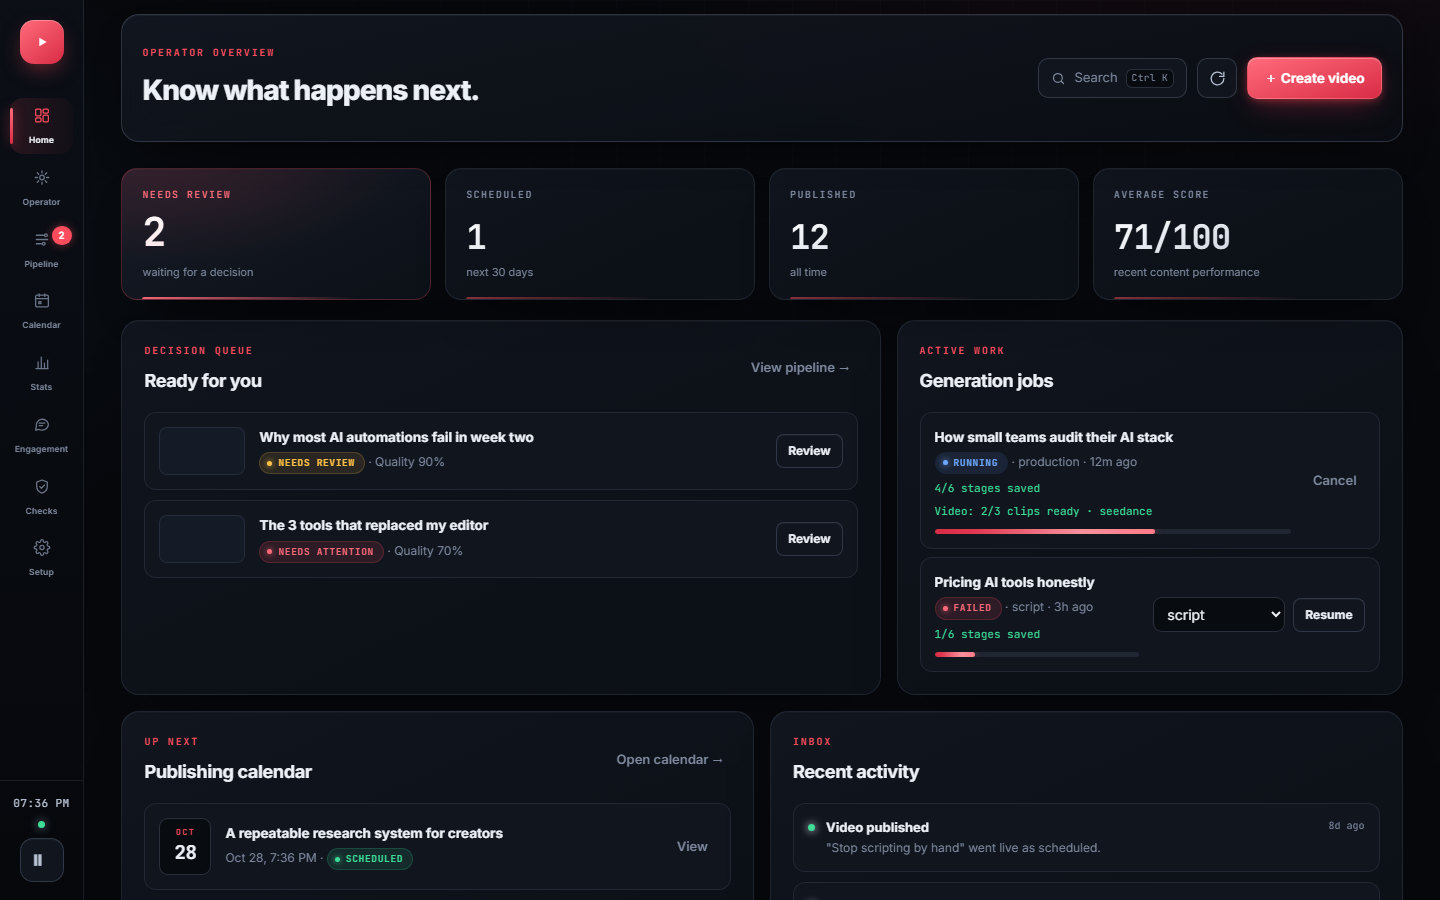
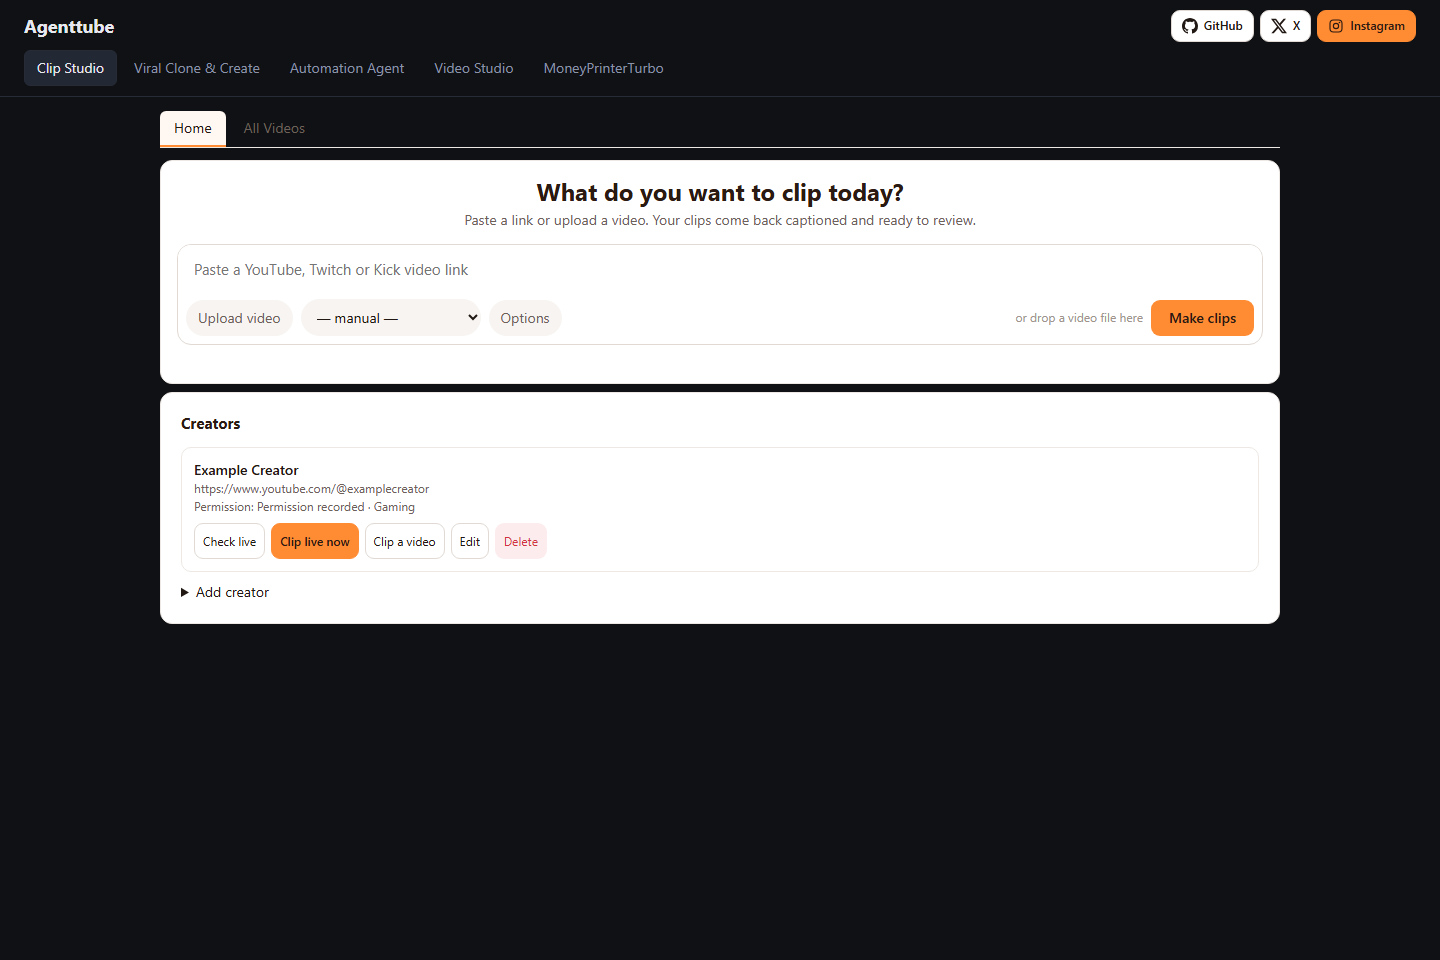
feat: Update README and add screenshot capture script for Agenttube

diff --git a/scripts/docs/capture-agenttube-screenshots.js b/scripts/docs/capture-agenttube-screenshots.js
@@ -1,0 +1,109 @@
+#!/usr/bin/env node
+'use strict';
+
+const fs = require('fs');
+const path = require('path');
+const { chromium } = require('playwright');
+const sharp = require('sharp');
+
+const ROOT = path.resolve(__dirname, '..', '..');
+const OUT_DIR = path.join(ROOT, 'assets', 'screenshots');
+const DASHBOARD_URL = (process.env.AGENTTUBE_DASHBOARD_URL || 'http://127.0.0.1:8765').replace(/\/$/, '');
+const MAX_BYTES = 400 * 1024;
+const DEMO_CREATORS = [{
+  id: 'demo-creator',
+  name: 'Example Creator',
+  channel_url: 'https://www.youtube.com/@examplecreator',
+  permission: 'Permission recorded',
+  niche: 'Gaming'
+}];
+const DEMO_JOBS = [
+  {
+    id: 'demo-2026-02',
+    created_at: '2026-11-20T10:30:00Z',
+    kind: 'video',
+    source_url: 'https://www.youtube.com/watch?v=example',
+    title: 'The best moments from this week',
+    creator: 'Example Creator',
+    state: 'running',
+    stage: "Transcribing on this computer (whisper 'small')",
+    counts: { rejected: 0, pending_review: 0, approved: 0, total: 0 }
+  },
+  {
+    id: 'demo-2026-01',
+    created_at: '2026-11-19T15:15:00Z',
+    kind: 'video',
+    source_url: 'https://www.youtube.com/watch?v=example2',
+    title: 'A surprising moment in the final round',
+    creator: 'Example Creator',
+    state: 'finished',
+    stage: 'Done: 6 clips ready for review',
+    counts: { rejected: 0, pending_review: 0, approved: 6, total: 6 }
+  }
+];
+
+async function waitForDashboard() {
+  const deadline = Date.now() + 30000;
+  while (Date.now() < deadline) {
+    try {
+      const response = await fetch(`${DASHBOARD_URL}/api/creators`);
+      if (response.ok) return;
+    } catch {
+      // Retry while the local dashboard starts.
+    }
+    await new Promise(resolve => setTimeout(resolve, 500));
+  }
+  throw new Error(`Agenttube dashboard is not reachable at ${DASHBOARD_URL}. Start it with npm run clip:dashboard first.`);
+}
+
+async function save(page, name) {
+  const file = path.join(OUT_DIR, name);
+  await page.screenshot({ path: file, type: 'png', fullPage: true });
+  const size = fs.statSync(file).size;
+  if (size > MAX_BYTES) {
+    const buffer = await sharp(file)
+      .resize({ width: 1440, withoutEnlargement: true })
+      .png({ compressionLevel: 9, palette: true, quality: 90 })
+      .toBuffer();
+    fs.writeFileSync(file, buffer);
+  }
+  console.log(`${name}: ${(fs.statSync(file).size / 1024).toFixed(0)} KB`);
+}
+
+async function main() {
+  await waitForDashboard();
+  fs.mkdirSync(OUT_DIR, { recursive: true });
+  const browser = await chromium.launch();
+  try {
+    const page = await browser.newPage({ viewport: { width: 1440, height: 960 }, colorScheme: 'dark' });
+    const pageErrors = [];
+    page.on('pageerror', error => pageErrors.push(error.message));
+    await page.route('**/api/creators', route => route.fulfill({
+      contentType: 'application/json',
+      body: JSON.stringify(DEMO_CREATORS)
+    }));
+    await page.route('**/api/jobs', route => route.fulfill({
+      contentType: 'application/json',
+      body: JSON.stringify(DEMO_JOBS)
+    }));
+    await page.goto(DASHBOARD_URL, { waitUntil: 'domcontentloaded' });
+    await page.locator('#creators .creator').first().waitFor({ state: 'visible', timeout: 10000 });
+
+    await save(page, 'overview.png');
+    await page.locator('.studio-subnav button[data-studio-view="videos"]').click();
+    await page.locator('#jobs tr.job').first().waitFor({ state: 'visible', timeout: 10000 });
+    await save(page, 'review.png');
+    await page.locator('.studio-subnav button[data-studio-view="home"]').click();
+    await page.setViewportSize({ width: 390, height: 844 });
+    await save(page, 'operator.png');
+
+    if (pageErrors.length) throw new Error(`Browser errors: ${pageErrors.join('; ')}`);
+  } finally {
+    await browser.close();
+  }
+}
+
+main().catch(error => {
+  console.error(error.message);
+  process.exit(1);
+});

diff --git a/README.md b/README.md
@@ -1,54 +1,64 @@
-# YouTube Automation Agent - Agenttube
+# Agenttube
 
-**The open-source AI agent that runs a YouTube channel end to end, with you approving every video before it goes out.**
+**A local dashboard for clipping, creating, reviewing, and managing YouTube video workflows.**
 
-It researches topics, writes scripts, generates narration and visuals, assembles real MP4s, writes titles, descriptions and tags, schedules approved videos, and learns from analytics and from what your audience says. It runs on your own machine with your own API keys.
+Clip Studio opens first: paste a video link or upload a file, manage creators, then review generated clips in **All Videos**. The other tabs bring Viral Clone & Create, the original YouTube Automation Agent, Video Studio, and MoneyPrinterTurbo into the same dashboard. Each tool keeps its own workflow and setup.
 
-[![CI](https://github.com/darkzOGx/youtube-automation-agent/actions/workflows/ci.yml/badge.svg)](https://github.com/darkzOGx/youtube-automation-agent/actions/workflows/ci.yml)
 [![MIT License](https://img.shields.io/badge/license-MIT-blue.svg)](LICENSE)
 [![Node.js 18.17+](https://img.shields.io/badge/node-18.17%2B-43853d.svg)](package.json)
-[![Releases](https://img.shields.io/github/v/release/darkzOGx/youtube-automation-agent?label=release)](https://github.com/darkzOGx/youtube-automation-agent/releases)
 
-![The operator console: videos waiting for your decision, a generation job in progress, and the publishing calendar](assets/screenshots/overview.png)
+![Agenttube Clip Studio Home with the clip composer and creator list](assets/screenshots/overview.png)
 
-| ![Content review: quality checks, metadata, and the approve, save, reject, and regenerate actions for one video](assets/screenshots/review.png) | ![Autonomous operator: the channel mandate, the current run, and the editorial plan the agent decided to make](assets/screenshots/operator.png) |
+| ![All Videos showing job status and clips ready for review](assets/screenshots/review.png) | ![Clip Studio Home at a mobile viewport](assets/screenshots/operator.png) |
 | :--: | :--: |
-| Content review: quality checks and approval for one video | Autonomous operator: your mandate and the agent's plan |
+| All Videos: job progress and review queue | Clip Studio Home: responsive layout |
 
-*Screenshots use sample data so every panel is populated. Regenerate them with `npm run docs:screenshots`.*
+*Screenshots use browser-only demo creators and jobs. Run `npm run docs:screenshots` with the local dashboard running to regenerate them; it does not change saved creators or jobs.*
 
 ## Why it's different
 
-- **You approve before anything is published.** Finished videos wait for fact review, media-rights confirmation, and your approval. Turning on autonomy doesn't skip those checks.
-- **Real output only.** Simulated or placeholder media is clearly marked and can never be approved or uploaded.
-- **Self-hosted.** Your keys, media, and channel data stay on your machine.
-- **Learns from evidence, with your sign-off.** Lessons from analytics, retention curves, and comments shape future videos only after you approve them.
-- **Your choice of providers.** Eight text providers or OpenRouter, five AI video providers, or free local slideshow rendering.
+- **One dashboard, distinct workflows.** Clip Studio, Viral Clone & Create, and the integrated studios remain separate tools with their own setup and data.
+- **Review clips before you use them.** Clip Studio produces local files for review; it does not publish them to YouTube.
+- **Local-first.** Dashboard services run on your machine, with outputs kept in their configured data folders.
+- **Choose the right workflow.** Use Clip Studio for permitted source footage, Video Studio or MoneyPrinterTurbo for original videos, and Automation Agent for channel planning and publishing.
 
 ## Quick start
 
-You need:
+For Clip Studio, you need Node.js 18.17 or newer, Python 3.10 or newer, and FFmpeg with libass installed. Create its isolated environment and start the dashboard:
 
-- Node.js 18.17 or newer
-- A Google account and YouTube Data API credentials ([setup steps](#youtube-credentials))
-- An API key for at least one [text provider](docs/providers.md#text). Gemini has free tiers for text and narration.
+```powershell
+python -m venv .venv-clipper
+.venv-clipper\Scripts\python.exe -m pip install -r clipper\requirements.txt
+npm run clip:dashboard
+```
+
+On macOS or Linux, use `.venv-clipper/bin/python` in place of `.venv-clipper\Scripts\python.exe`. Open `http://127.0.0.1:8765`.
+
+The dashboard opens on Clip Studio Home. Use **All Videos** to follow jobs and review clips. Optional tools may need their own dependencies and credentials; see the sections below.
+
+## Dashboard tabs
+
+| Tab | What it does |
+| --- | --- |
+| Clip Studio | Home has the URL/upload composer and creator list; All Videos shows job progress and clip review. |
+| Viral Clone & Create | Analyzes a reference video's structure, writes variants, and creates original videos. |
+| Automation Agent | Embeds the original channel automation dashboard when its service is running. |
+| Video Studio | Shows status and logs for the original-video workflow and can open its interface separately. |
+| MoneyPrinterTurbo | Opens the Streamlit video-generation workflow; selecting the tab starts it when configured. |
+
+PeakCut is not a dashboard tab. Its source remains available separately in [`peakcut/`](peakcut/README.md).
+
+## Automation Agent
+
+The Automation Agent is the original YouTube channel-management application, running as a separate Node.js service on port 3456. Its dashboard tab shows service status, logs, and an **Open in new window** link; start the service from the Agenttube folder:
 
 ```bash
-git clone https://github.com/darkzOGx/youtube-automation-agent.git
-cd youtube-automation-agent
 npm install
-npx playwright install chromium   # renders slideshow videos; on Linux add --with-deps
 npm run walkthrough
 npm start
 ```
 
-Then open `http://localhost:3456`.
-
-1. **`npm run walkthrough`** explains each provider choice, tests your keys, and connects your YouTube channel. For a shorter flow, use `npm run setup`. Every setting is documented in [`.env.example`](.env.example).
-2. **Check readiness.** In the dashboard, open **Production readiness** and choose **Run verified check**. It makes small live text and narration requests, checks access to your channel, and builds and decodes a test MP4, without uploading anything.
-3. **Make videos.** Open **Autonomous operator**, describe the channel you want, and choose **Activate & run now**, or create a single video from the dashboard. Finished videos wait in **Pipeline** for your review and approval.
-
-FFmpeg is installed with `npm install` through `ffmpeg-static`.
+`npm run walkthrough` configures providers and connects the channel. `npm run setup` offers a shorter setup. Settings are documented in [`.env.example`](.env.example).
 
 ### YouTube credentials
 
@@ -57,7 +67,7 @@ FFmpeg is installed with `npm install` through `ffmpeg-static`.
 3. Create an OAuth 2.0 client of type **Desktop app** (not Web application) and save the JSON as `config/credentials.json`.
 4. Under **Google Auth Platform → Audience**, add the Google account that owns your channel as a **test user**. Otherwise sign-in fails with `Error 403: access_denied`. While the app is in Testing mode, Google expires the sign-in after 7 days.
 
-## How it works
+### Automation Agent workflow
 
 | Stage | What the agent does | What you control |
 | --- | --- | --- |
@@ -68,7 +78,7 @@ FFmpeg is installed with `npm install` through `ffmpeg-static`.
 | Publish | Schedules and uploads approved content | Privacy, timing, final decision |
 | Learn | Captures 24-hour and 7-day evidence, measures your chosen outcome, then proposes the next move | Choose the KPI and approve or reject each lesson |
 
-## Features
+### Automation Agent features
 
 Each item links to its walkthrough in the [feature guide](docs/features.md).
 
@@ -106,37 +116,38 @@ python -m venv .venv-clipper
 npm run clip:dashboard   # then open http://127.0.0.1:8765
 ```
 
-**Dashboard.** Save the creators you have permission to clip (channel link, permission record, niche), press **Check live** to see who is streaming, then **Clip live now** or **Clip a video**. Jobs show live progress; every clip plays in the page with its titles, alternative titles and scores, and you approve or reject it there. The dashboard listens on `127.0.0.1` only.
+**Dashboard.** Home contains the URL/upload composer and creator list. Save creators you have permission to clip (channel link, permission record, niche), press **Check live** to see who is streaming, then **Clip live now** or **Clip a video**. **All Videos** shows job progress and opens the review view; each clip plays with its titles, alternative titles and scores, and you can approve or reject it there. The dashboard listens on `127.0.0.1` only. Finished MP4s are saved in `data/clips/<job-id>/` (for example, `short_01.mp4` and `long_01.mp4`).
 
 **Live streams.** Live mode records the stream from now on and transcribes it in 5-minute windows while it plays, cutting Shorts as highlights happen (`--live-shorts`, 0 = only after the stream). When the stream ends or you press **Stop**, long clips are made from the full recording. It uses the faster `base` Whisper model by default to keep up on a CPU.
 
-**Viral Clone tab.** Paste a video that performed well and a topic: it is transcribed locally, Gemini maps its structure (hook, beats, pacing, payoff, CTA) and writes new scripts that follow the same structure for your topic. Only the structure is reused, never footage or sentences, and the downloaded audio is deleted afterwards. Inspired by [Hypit](https://github.com/hypit-ai/hypit)'s "clone any viral video" idea; independently implemented. CLI: `npm run clip -- <url> --clone-topic "your topic" --variants 3`.
+**Viral Clone & Create tab.** Paste a video that performed well and a topic: it is transcribed locally, Gemini maps its structure (hook, beats, pacing, payoff, CTA) and writes new scripts that follow the same structure for your topic. Only the structure is reused, never footage or sentences, and the downloaded audio is deleted afterwards. Inspired by [Hypit](https://github.com/hypit-ai/hypit)'s "clone any viral video" idea; independently implemented. CLI: `npm run clip -- <url> --clone-topic "your topic" --variants 3`.
 
 **Create a video (free, any topic).** Paste your own script (narrated exactly as written), describe an idea (Gemini's free tier writes the script), or press **Make video** on a clone variant. Each scene gets a free-licence Wikimedia Commons image with a slow camera move, a look (documentary, studio, blueprint, night), on-screen words that land on the spoken word, word-by-word captions, a synthesised whoosh between scenes and loudness-normalised audio. The voice is Microsoft Edge TTS when reachable, otherwise the offline Windows voice; word timing comes from local Whisper, so any voice works. Every job writes `credits.md` and an SRT, and attribution goes into the description. Method adapted from [cinematic-skill](https://github.com/Moh4696/cinematic-skill) (MIT). CLI: `npm run clip -- script.txt --create script --format short --look documentary`.
 
 **Inspiration.** Search 700+ viral video prompts from [awesome-opus5-5-videos](https://github.com/yihui-dev/awesome-opus5-5-videos) (fetched live; every prompt links to and credits its creator) and use one as the idea for a new video.
 
-**Automation Agent tab.** Starts, stops and embeds this repository's original YouTube Automation Agent dashboard (port 3456) so both tools are in one window. It needs `npm install` and stays in setup mode until you finish its Setup.
+**CLI.** The same clipping and live-stream jobs are also available from the command line:
 
-**Video Studio tab.** Runs the migrated original-video workflow inside Agenttube: topic research, script writing, narration, stock visuals, rendering, metadata editing, review, and optional YouTube upload. Install its isolated dependencies once, then launch it from the dashboard:
+```bash
+npm run clip -- "https://www.youtube.com/watch?v=..." --permission "email from @creator, 2026-11-19" --shorts 5 --long 1 --niche trading
+npm run clip -- "https://www.youtube.com/@creator" --live --permission "email from @creator, 2026-11-19" --live-shorts 1 --long 1
+```
+
+Needs FFmpeg with libass on `PATH`. Output goes to `data/clips/<job-id>/`. Run `npm run clip -- --help` for all options; `--model` also accepts a local faster-whisper folder for networks that block model downloads. Moment selection and live clipping are inspired by [PeakCut](https://github.com/haziqahmedqasmi/PeakCut) (MIT); per-clip title variants by [Hypit](https://github.com/hypit-ai/hypit).
+
+**Automation Agent tab.** Shows the original YouTube Automation Agent dashboard (port 3456) when its separate service is running, along with status, logs, and an **Open in new window** link. Start it from the Agenttube folder with `npm start`; setup requires `npm install` and the walkthrough above. The tab itself has no Start/Stop controls.
+
+**Video Studio tab.** Shows the migrated original-video workflow's status and logs and provides an **Open in new window** link. It covers topic research, script writing, narration, stock visuals, rendering, metadata editing, review, and optional YouTube upload. Install its isolated dependencies once, then start the standalone service:
 
 ```powershell
 python -m venv .venv-studio
 .venv-studio\Scripts\python.exe -m pip install -r studio\requirements.txt
-npm run clip:dashboard
+.venv-studio\Scripts\python.exe studio\gui.py
 ```
 
-Open the **Video Studio** tab and press **Start**. Studio settings and OAuth files stay in the ignored `studio/.env` and `studio/client_secret*.json` files; generation does not upload unless you explicitly choose Upload in the studio. Its separate virtual environment keeps MoviePy 1.x and NumPy below 2 isolated from Clip Studio.
+Then open the **Video Studio** tab in Agenttube or visit `http://127.0.0.1:7070`. Studio settings and OAuth files stay in the ignored `studio/.env` and `studio/client_secret*.json` files; generation does not upload unless you explicitly choose Upload in the studio. Its separate virtual environment keeps MoviePy 1.x and NumPy below 2 isolated from Clip Studio.
 
-**PeakCut tab.** Runs the upstream [PeakCut](https://github.com/haziqahmedqasmi/PeakCut) dashboard in its own local server and Python environment. The included source is MIT licensed; its license is in `peakcut/LICENSE`. Install FFmpeg first if it is not already available, then install PeakCut's dependencies once:
-
-```powershell
-python -m venv .venv-peakcut
-.venv-peakcut\Scripts\python.exe -m pip install -r peakcut\requirements.txt
-npm run clip:dashboard
-```
-
-Open the **PeakCut** tab to start and show its dashboard automatically. **Open /app separately** opens the same page in another window. PeakCut uses port 8767 and keeps videos, settings, database, and its optional speech model in the ignored `peakcut-data/` folder. Its first startup downloads the speech model (about 480 MB). Add an AI key in PeakCut's **Settings, AI** page to enable AI-selected moments and titles; otherwise it can still choose moments based on speech and loudness. Its header links to the Agenttube GitHub repository and the X and Instagram profiles configured by `AGENTTUBE_PEAKCUT_GITHUB_URL`, `AGENTTUBE_PEAKCUT_X_URL`, and `AGENTTUBE_PEAKCUT_INSTAGRAM_URL` in `.env`.
+**PeakCut (standalone).** PeakCut is not a tab in the Agenttube dashboard. Its source and MIT license remain in [`peakcut/`](peakcut/README.md), and its local data stays in `peakcut-data/`.
 
 **MoneyPrinterTurbo tab.** Runs the upstream [MoneyPrinterTurbo](https://github.com/harry0703/MoneyPrinterTurbo) Streamlit app in its own Python 3.11 environment. It complements the existing create workflow with a broad set of script, stock/AI footage, voice, subtitle, music, and batch-generation options. Its upstream source is MIT licensed; retain its `LICENSE` and notices. Individual media assets and provider services may have separate terms or charges.
 
@@ -152,18 +163,9 @@ uv --system-certs sync --project moneyprinterturbo --frozen --python 3.11
 npm run clip:dashboard
 ```
 
-Select **MoneyPrinterTurbo** to start it, or use **Open separately** if the embedded Streamlit view is unavailable in your browser. The WebUI binds to `127.0.0.1:8768`; the API service is not started. `MPT_HOME` points to the ignored `moneyprinterturbo-data/` folder for credentials, settings, and generated videos. Stop the app from the tab when finished. To update the upstream source, replace the extracted source while keeping `moneyprinterturbo-data/` intact.
+Select **MoneyPrinterTurbo** to start it automatically, or use **Open separately** if the embedded Streamlit view is unavailable in your browser. The tab shows status and logs; it has no Start/Stop buttons. The WebUI binds to `127.0.0.1:8768`; the API service is not started. `MPT_HOME` points to the ignored `moneyprinterturbo-data/` folder for credentials, settings, and generated videos. To update the upstream source, replace the extracted source while keeping `moneyprinterturbo-data/` intact.
 
-The same jobs run from the command line:
-
-```bash
-npm run clip -- "https://www.youtube.com/watch?v=..." --permission "email from @creator, 2026-11-19" --shorts 5 --long 1 --niche trading
-npm run clip -- "https://www.youtube.com/@creator" --live --permission "email from @creator, 2026-11-19" --live-shorts 1 --long 1
-```
-
-Needs FFmpeg with libass on `PATH`. Output goes to `data/clips/<job>/`. Run `npm run clip -- --help` for all options; `--model` also accepts a local faster-whisper folder for networks that block model downloads. Moment selection and live clipping are inspired by [PeakCut](https://github.com/haziqahmedqasmi/PeakCut) (MIT); per-clip title variants by [Hypit](https://github.com/hypit-ai/hypit).
-
-## AI providers
+## Automation Agent providers
 
 One key gets you started. Pick a text provider in the walkthrough: Gemini, OpenAI, OpenRouter (400+ models, including Claude), Kimi, MiMo, GLM, DeepSeek, or MiniMax. Gemini has free tiers for text and narration.
 
@@ -174,7 +176,7 @@ One key gets you started. Pick a text provider in the walkthrough: Gemini, OpenA
 
 Models, keys, env vars, clip limits, and the `.env` essentials are in the [providers guide](docs/providers.md).
 
-## Automation
+## Automation Agent schedule
 
 The scheduler starts with `npm start` and uses the server's local time.
 
@@ -195,7 +197,7 @@ Details are in the [feature guide](docs/features.md#automation-schedule).
 - [AI providers](docs/providers.md): text, narration, image, and video providers with keys and limits.
 - [API reference](docs/api.md): every HTTP route the dashboard server exposes, for example `POST /generate` with `x-api-key`.
 - [Troubleshooting](docs/troubleshooting.md): fixes for setup, sign-in, and generation problems.
-- [Changelog](CHANGELOG.md) and [releases](https://github.com/darkzOGx/youtube-automation-agent/releases).
+- [Changelog](CHANGELOG.md) and [Agenttube releases](https://github.com/imrkbhai/Agenttube/releases).
 
 The three problems people hit most:
 
@@ -205,7 +207,7 @@ The three problems people hit most:
 | Google sign-in shows `Error 403: access_denied` | Add your Google account as a test user under **Google Auth Platform → Audience**. |
 | No video is produced, or it's marked simulated | Read the ✗ lines in the startup capability check, and make sure you ran `npx playwright install chromium`. |
 
-Questions and setup help go in [Discussions](https://github.com/darkzOGx/youtube-automation-agent/discussions).
+Questions and setup help go in [Agenttube Discussions](https://github.com/imrkbhai/Agenttube/discussions).
 
 ## Contributing
 
